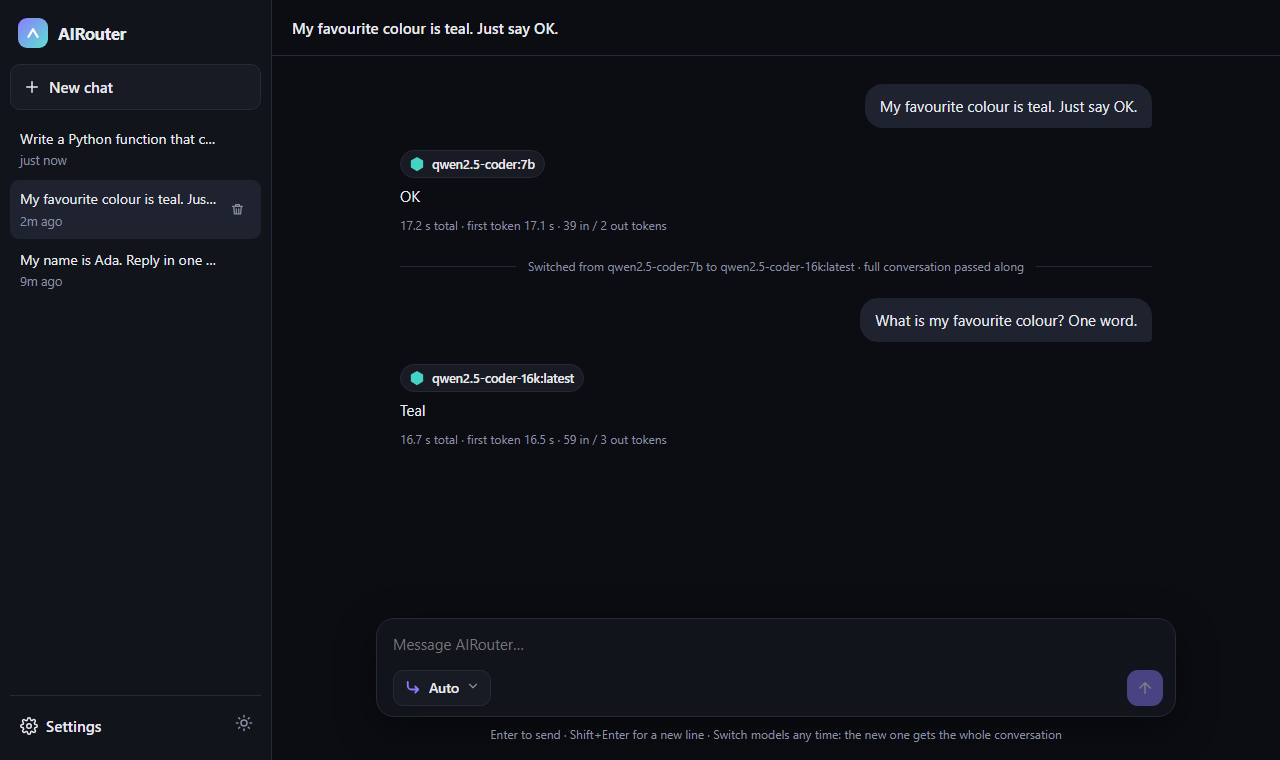
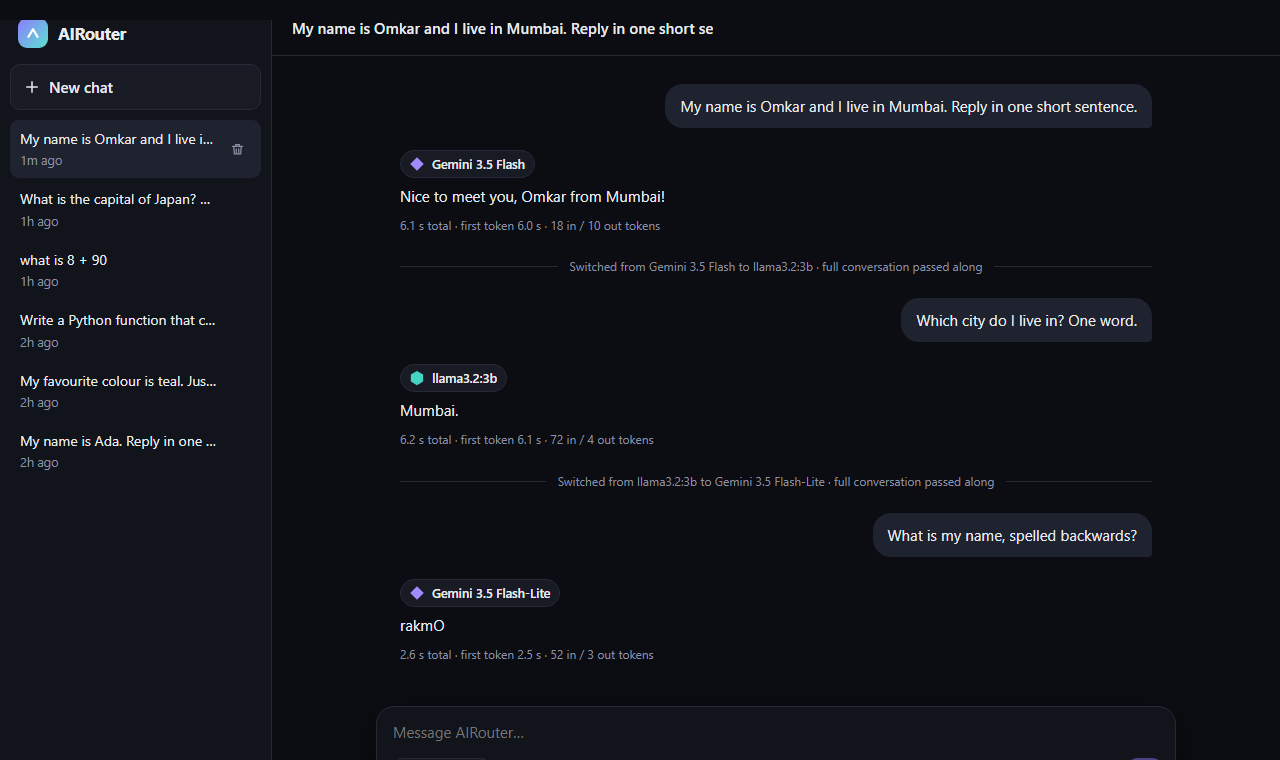
readme and screenshots with live gemini results

diff --git a/README.md b/README.md
@@ -17,7 +17,7 @@ A chat app that talks to each AI provider through its **own official API**, sugg
 
 <img src="docs/mobile.png" width="260" alt="Narrow screen">
 
-All screenshots are of the real app running against a local Ollama model (`qwen2.5-coder:7b` and `qwen2.5-coder-16k`).
+All screenshots are of the real app. The switching example goes Gemini 3.5 Flash → local Llama 3.2 3B → Gemini 3.5 Flash-Lite in one thread; the other replies come from local Ollama models.
 
 ## How it works
 
@@ -56,7 +56,7 @@ python -m airouter serve          # opens http://127.0.0.1:8400
 Free setup options (you need at least one):
 
 - **Gemini**: get a free key at <https://aistudio.google.com/apikey> and set `GEMINI_API_KEY`.
-- **Ollama**: install from <https://ollama.com>, then `ollama pull qwen2.5-coder:7b` (or any model). Every pulled model shows up in the picker on its own.
+- **Ollama**: install from <https://ollama.com>, then `ollama pull llama3.2:3b` (a small general model) and/or `ollama pull qwen2.5-coder:7b` (coding). Every pulled model shows up in the picker on its own.
 
 `OPENAI_API_KEY` and `ANTHROPIC_API_KEY` are optional. **They cost money**: every message to them is billed to your account. The settings page's *Test connection* button only lists models, which is free on all four providers.
 
@@ -79,8 +79,9 @@ PASS  history save/resume + model switch: 2 turns saved, model b got model a's c
 
 ## What was tested live
 
-- **Ollama**: real streaming chats through the app with `qwen2.5-coder:7b` and `qwen2.5-coder-16k`, including a switch between them mid-thread. The second model correctly answered a question that needed the first turn's context. On this machine (CPU), replies took about 5-17 s, mostly waiting for the first token.
-- **Gemini, OpenAI, Anthropic**: the modules are written against each official SDK and tested for the "not configured" path, but I did not run them with real keys while building this, to avoid spending money. Model names in `routing.toml` (e.g. `gemini-2.5-flash`, `gpt-5`, `claude-sonnet-5-5`) may need updating as providers release new ones; *Test connection* shows the models your key can see.
+- **Gemini (free tier)**: real streaming chats with `gemini-3.5-flash` and `gemini-3.5-flash-lite` (about 2.5-6 s per short reply), including a Gemini → Ollama → Gemini switch in one thread where each model answered from the earlier turns. On a free key, the older `gemini-2.5-*` models returned "no longer available" and `gemini-3.1-pro-preview` returned "quota exceeded", so Pro is labelled paid and left out of the router's picks.
+- **Ollama**: real streaming chats with `llama3.2:3b`, `qwen2.5-coder:7b` and `qwen2.5-coder-16k`. On this machine (CPU), warm replies took about 5-17 s and the first reply after loading a model took 20-35 s.
+- **OpenAI, Anthropic**: the modules are written against each official SDK and tested for the "not configured" path, but I did not run them with real keys, to avoid spending money. Model names in `routing.toml` (e.g. `gpt-5`, `claude-sonnet-5-5`) may need updating as providers release new ones; *Test connection* shows the models your key can see.
 
 ## Customising the router
 
@@ -88,7 +89,7 @@ Open [routing.toml](routing.toml). For example, to send coding questions to a lo
 
 ```toml
 [categories.coding]
-prefer = ["ollama:*coder*", "anthropic:claude-sonnet-5-5", "gemini:gemini-2.5-flash"]
+prefer = ["ollama:*coder*", "anthropic:claude-sonnet-5-5", "gemini:gemini-3.5-flash"]
 ```
 
 To keep an installed Ollama model out of the picker (without uninstalling it), add it to `hide` under `[ollama]` in the same file.
